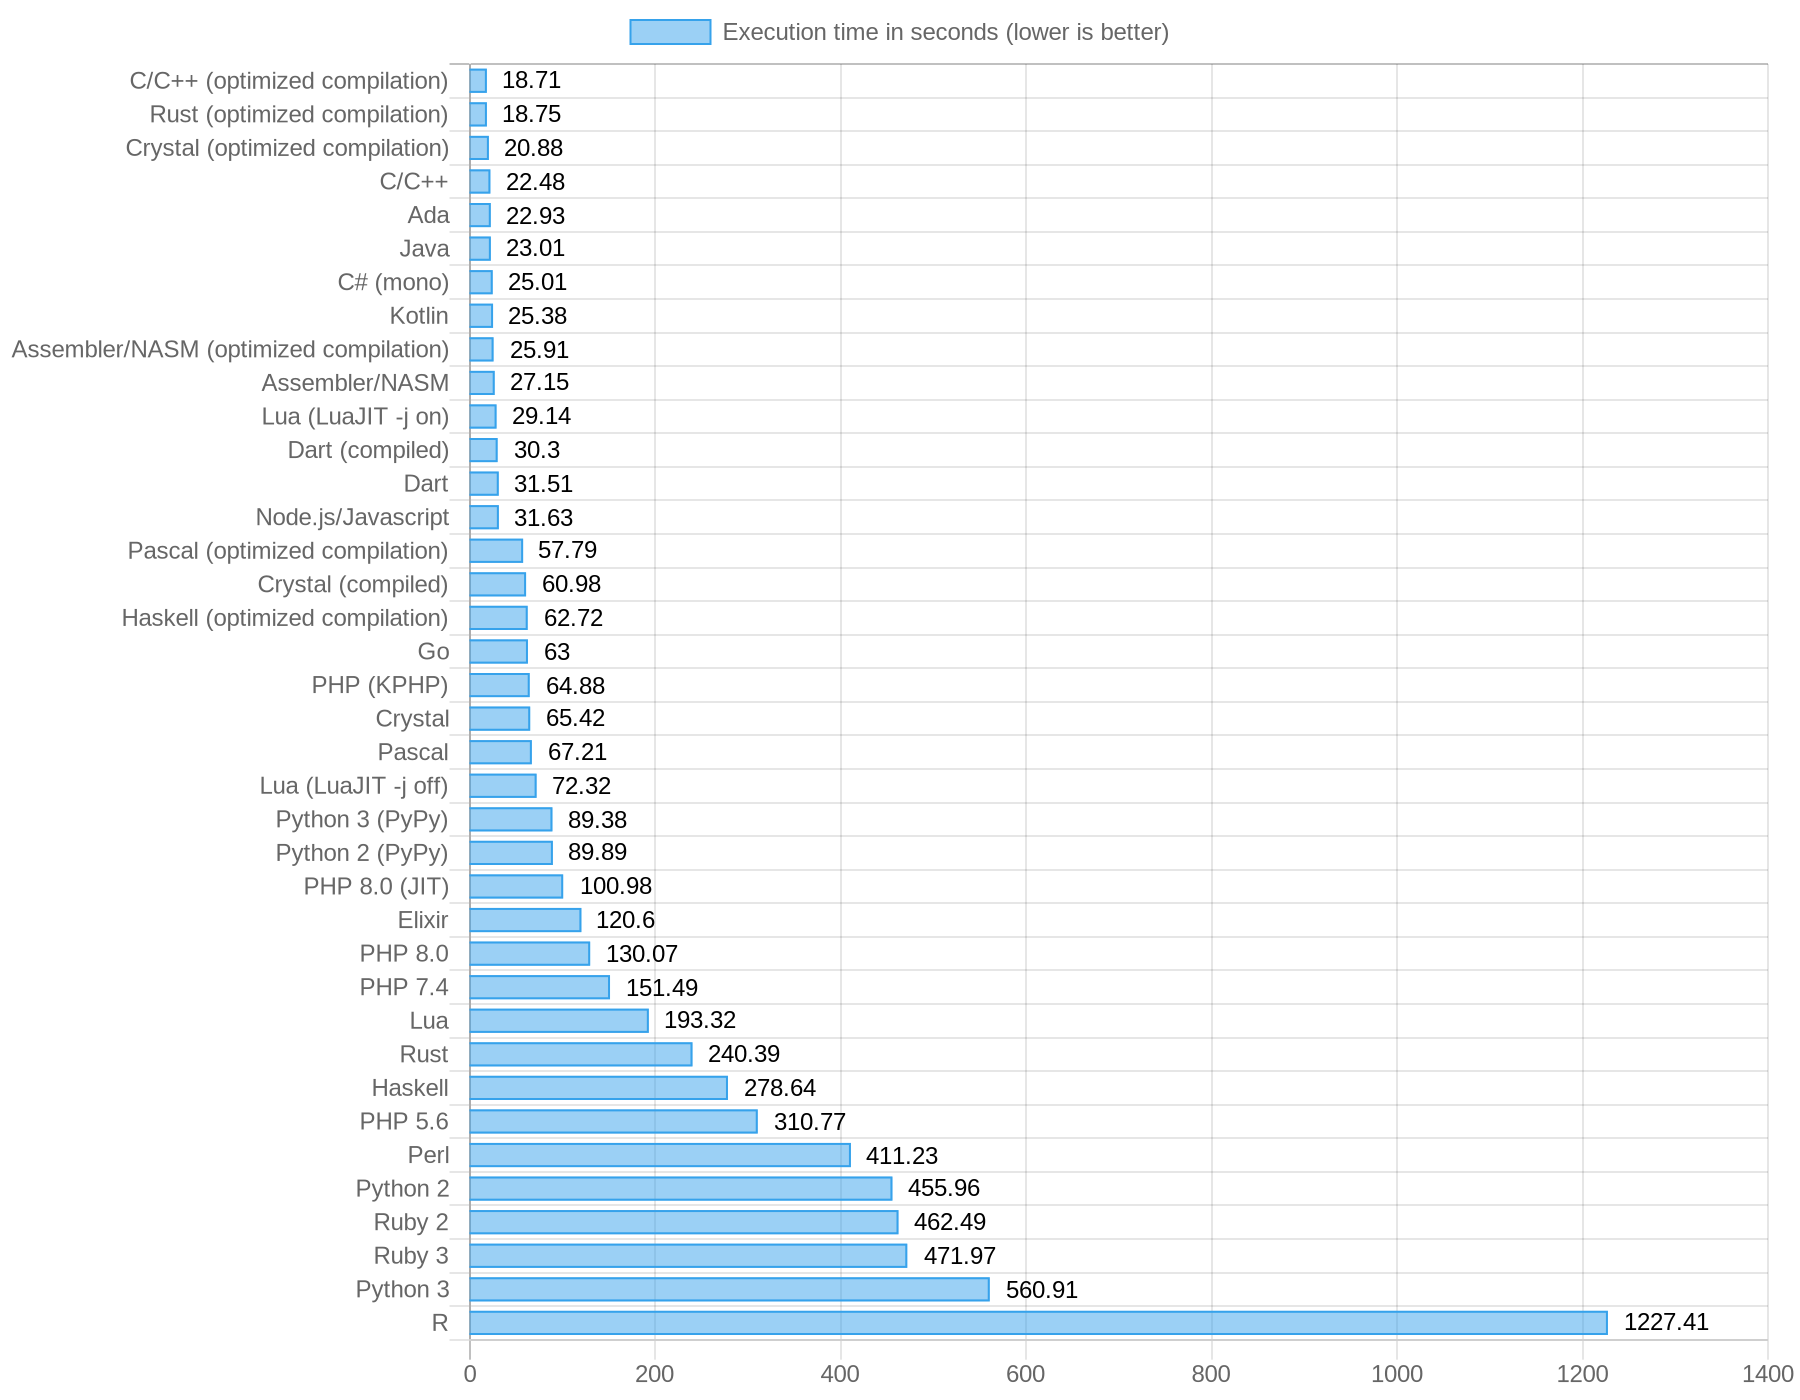
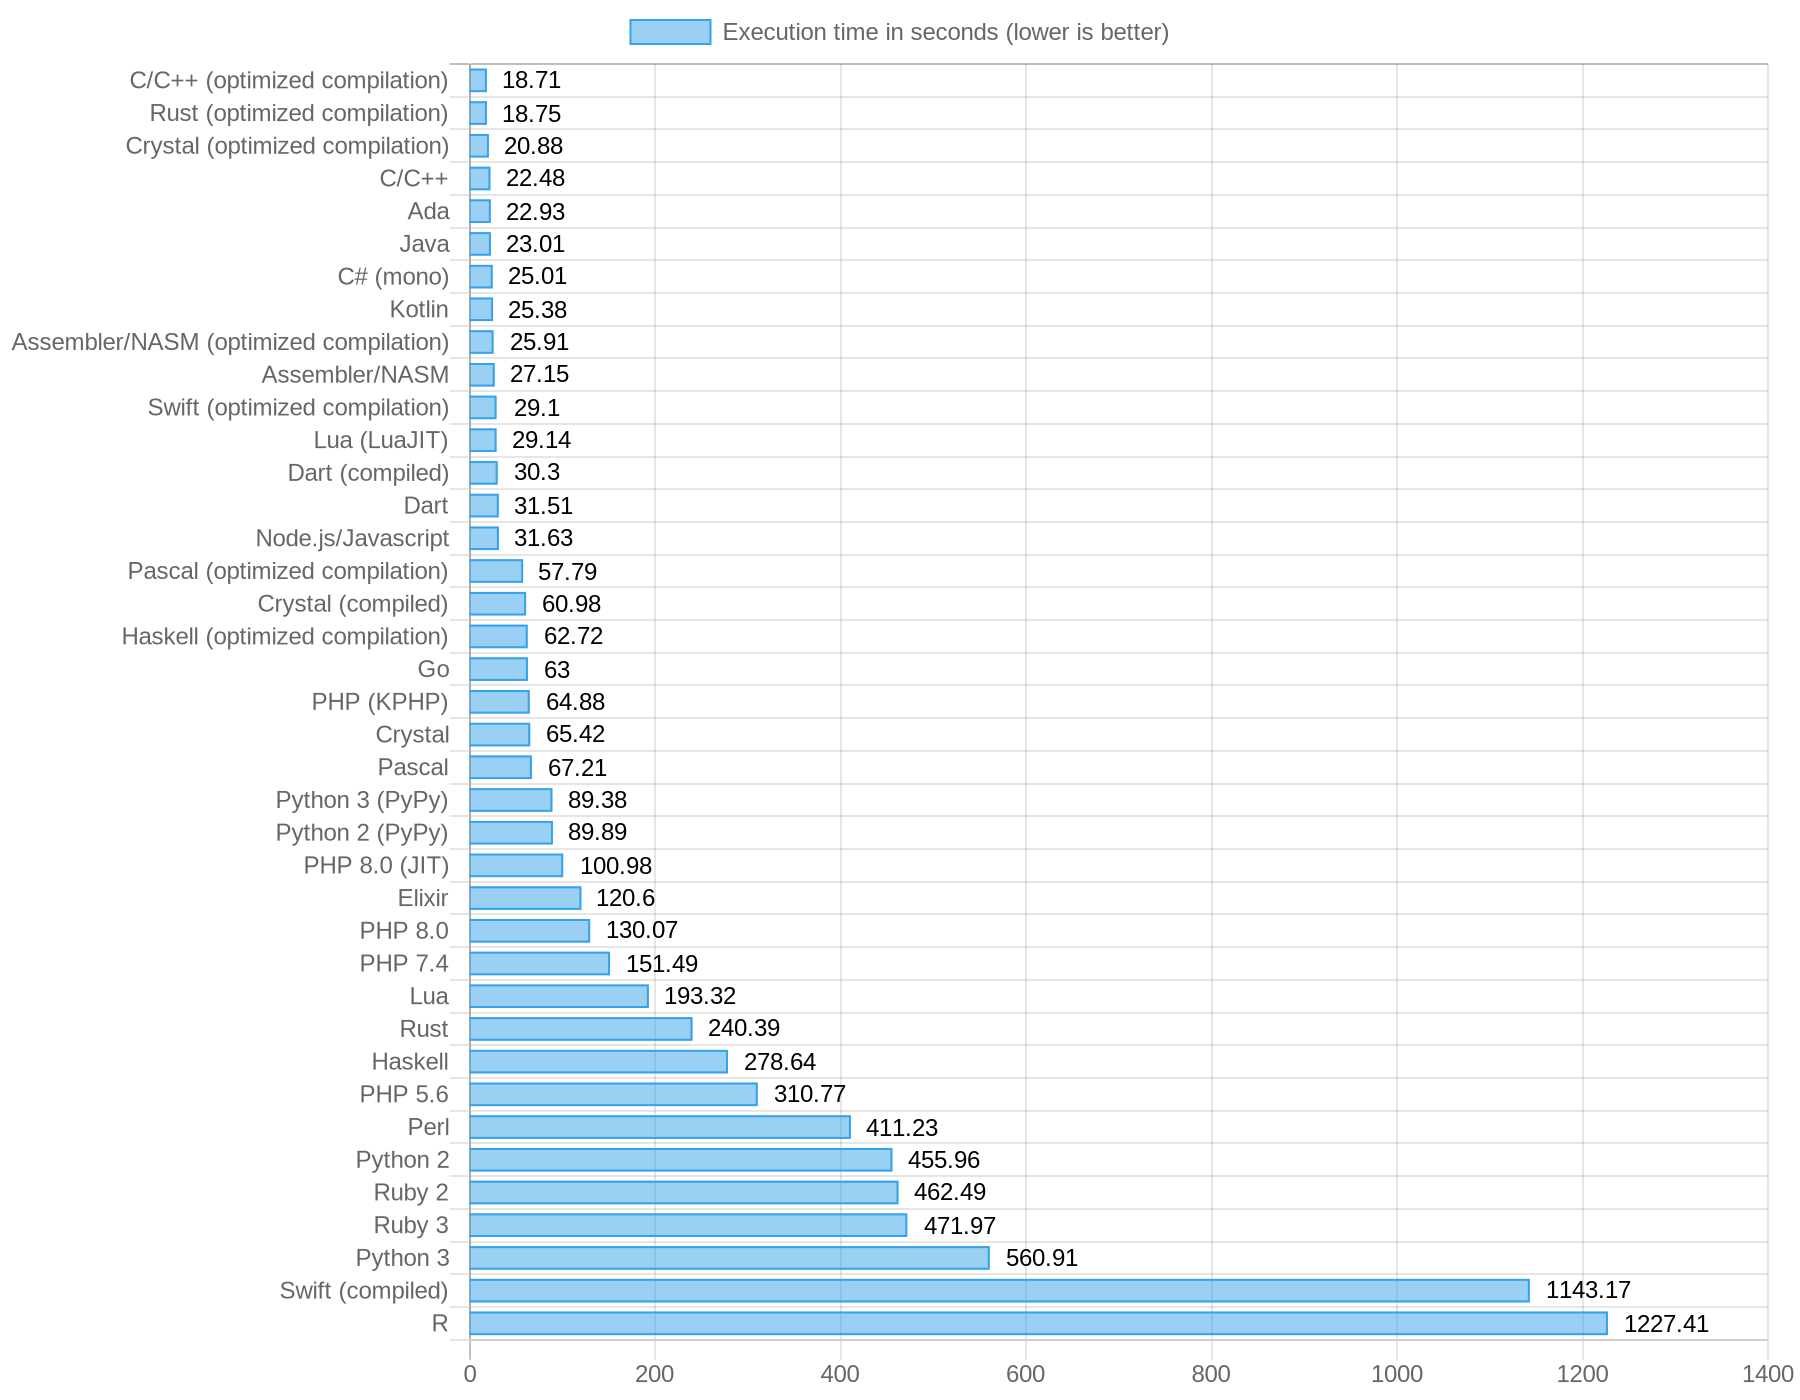
Add Swift test runs

Changed region(s): [[0.0, 0.0614, 0.9956, 0.9521]]

diff --git a/README.md b/README.md
@@ -783,34 +783,24 @@ sys 1.12
 ```
 
 
-### [Swift](./prime-number/swift/Sources/cmd/main.swift)
-```
-docker build -t benchmark . > /dev/null && \
-docker run --rm benchmark /root/swift-5.4.2-RELEASE-ubuntu20.04/usr/bin/swift --version && echo '' && \
-docker run --rm --volume $(pwd):/app benchmark bash -c 'time -p /root/swift-5.4.2-RELEASE-ubuntu20.04/usr/bin/swift run --package-path /app/prime-number/swift/ cmd 10000'
-```
-```
-```
-
-
-### [Swift (-c release)](./prime-number/swift/Sources/cmd/main.swift)
-```
-docker build -t benchmark . > /dev/null && \
-docker run --rm benchmark /root/swift-5.4.2-RELEASE-ubuntu20.04/usr/bin/swift --version && echo '' && \
-docker run --rm --volume $(pwd):/app benchmark bash -c 'time -p /root/swift-5.4.2-RELEASE-ubuntu20.04/usr/bin/swift run -c release --package-path /app/prime-number/swift/ cmd 10000'
-```
-```
-```
-
-
 ### [Swift (compiled)](./prime-number/rust/cmd.rs)
 ```
 docker build -t benchmark . > /dev/null && \
 docker run --rm benchmark /root/swift-5.4.2-RELEASE-ubuntu20.04/usr/bin/swift --version && echo '' && \
 docker run --rm --volume $(pwd):/app benchmark /root/swift-5.4.2-RELEASE-ubuntu20.04/usr/bin/swift build --package-path /app/prime-number/swift/ && \
-docker run --rm --volume $(pwd):/app benchmark bash -c 'time -p /app/prime-number/swift/.build/debug/cmd 10000'
+docker run --rm --volume $(pwd):/app benchmark bash -c 'time -p /app/prime-number/swift/.build/debug/cmd 1000'
 ```
 ```
+Swift version 5.4.2 (swift-5.4.2-RELEASE)
+Target: x86_64-unknown-linux-gnu
+
+[1/1] Planning build
+[0/0] Build complete!
+The latest prime number: 104729
+
+real 1143.17
+user 1139.47
+sys 0.05
 ```
 
 
@@ -819,7 +809,17 @@ docker run --rm --volume $(pwd):/app benchmark bash -c 'time -p /app/prime-numbe
 docker build -t benchmark . > /dev/null && \
 docker run --rm benchmark /root/swift-5.4.2-RELEASE-ubuntu20.04/usr/bin/swift --version && echo '' && \
 docker run --rm --volume $(pwd):/app benchmark /root/swift-5.4.2-RELEASE-ubuntu20.04/usr/bin/swift build -c release --package-path /app/prime-number/swift/ && \
-docker run --rm --volume $(pwd):/app benchmark bash -c 'time -p /app/prime-number/swift/.build/debug/cmd 10000'
+docker run --rm --volume $(pwd):/app benchmark bash -c 'time -p /app/prime-number/swift/.build/release/cmd 10000'
 ```
 ```
+Swift version 5.4.2 (swift-5.4.2-RELEASE)
+Target: x86_64-unknown-linux-gnu
+
+[1/1] Planning build
+[0/0] Build complete!
+The latest prime number: 104729
+
+real 29.10
+user 29.07
+sys 0.00
 ```
